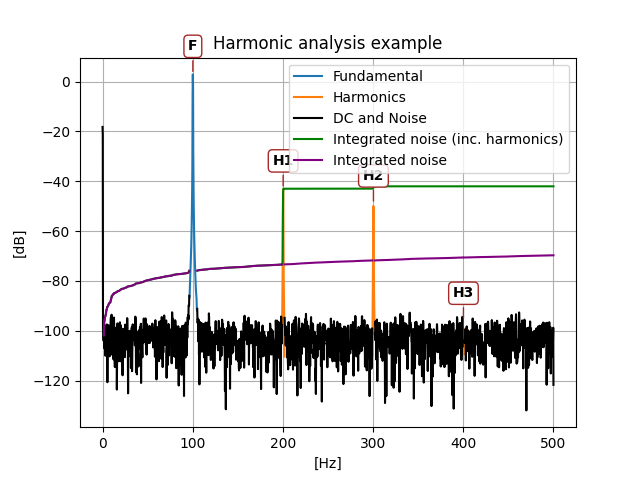
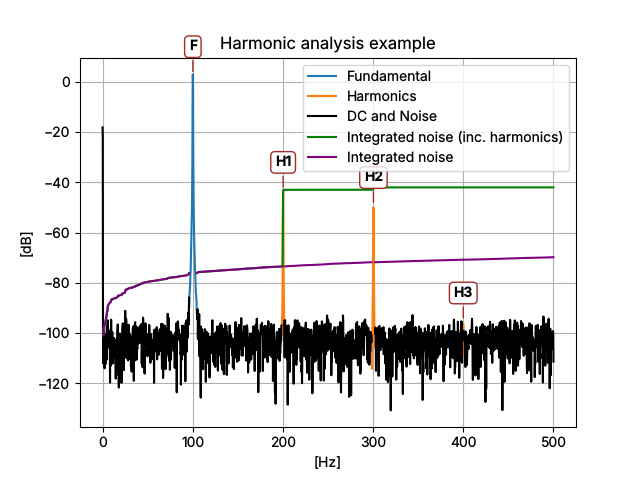
Fix the DC power reported by harm_analysis
harm_analysis summed the DC bins without dividing by the window's
equivalent noise bandwidth, unlike every other power, so dc_db was too
high by 10*log10(ENBW): +1.76 dB with the default Hann window, +3.02 dB
with Blackman-Harris. Use _power_from_bins like spec_analysis does.

That alone would have broken the flat-top window, where the error was
hidden by a second bug: _find_dc_bins looks for the first rising bin, but
the single-sided spectrum doubles every bin except DC, so with a flat
main lobe bin 1 is higher than bin 0 and only one DC bin was found. Undo
the doubling before comparing bins. This also fixes spec_analysis, which
reported DC 5.76 dB too low with the flat-top window.

- New test: DC power for Hann, Blackman-Harris and flat-top windows,
  even and odd lengths, harm_analysis and spec_analysis (0.01 dB).
- Tighten the existing dc_db assertions from rtol=0.3 (up to ~5 dB) to
  0.01 dB; they let the 1.76 dB error through.
- Regenerate examples/example_usage.md and its plot, which showed the
  wrong dc_db.

Fixes #48

Claude-Session: https://claude.ai/code/session_01TF8dALp1KyQV4288DM1FF8

diff --git a/tests/test_harm_analysis.py b/tests/test_harm_analysis.py
@@ -94,7 +94,7 @@ def test_harm_analysis(plot_en):
 
     assert np.isclose(results.fund_db, fund_pow_db, rtol=tolerance)
     assert np.isclose(results.fund_freq, f1, rtol=tolerance)
-    assert np.isclose(results.dc_db, dc_power_db, rtol=tolerance)
+    assert np.isclose(results.dc_db, dc_power_db, atol=0.01)  # dB
     assert np.isclose(results.noise_db, noise_pow_db, rtol=tolerance)
     assert np.isclose(results.thd_db, thd_db, rtol=tolerance)
     assert np.isclose(results.thdn_db, thdn_db, rtol=tolerance)
@@ -161,7 +161,7 @@ def test_harm_analysis_dc(plot_en):
 
     assert np.isclose(results.fund_db, fund_pow_db, rtol=tolerance)
     assert np.isclose(results.fund_freq, f1, rtol=tolerance)
-    assert np.isclose(results.dc_db, dc_power_db, rtol=tolerance)
+    assert np.isclose(results.dc_db, dc_power_db, atol=0.01)  # dB
     assert np.isclose(results.noise_db, noise_pow_db, rtol=tolerance)
     assert np.isclose(results.thd_db, thd_db, rtol=tolerance)
     assert np.isclose(results.thdn_db, thdn_db, rtol=tolerance)
@@ -220,7 +220,7 @@ def test_harm_analysis_bw():
 
     assert np.isclose(results.fund_db, fund_pow_db, rtol=tolerance)
     assert np.isclose(results.fund_freq, f1, rtol=tolerance)
-    assert np.isclose(results.dc_db, dc_power_db, rtol=tolerance)
+    assert np.isclose(results.dc_db, dc_power_db, atol=0.01)  # dB
     assert np.isclose(results.noise_db, noise_pow_db - 3, rtol=tolerance)
     assert np.isclose(results.thd_db, thd_db, rtol=tolerance)
     assert np.isclose(results.thdn_db, thdn_db, rtol=tolerance)
@@ -281,7 +281,7 @@ def test_harm_analysis_harm_zero():
 
     assert np.isclose(results.fund_db, fund_pow_db, rtol=tolerance)
     assert np.isclose(results.fund_freq, f1, rtol=tolerance)
-    assert np.isclose(results.dc_db, dc_power_db, rtol=tolerance)
+    assert np.isclose(results.dc_db, dc_power_db, atol=0.01)  # dB
     assert np.isclose(results.noise_db, noise_pow_db - 3, rtol=tolerance)
     assert np.isnan(results.thd_db)
     assert np.isclose(results.thdn_db, thdn_db, rtol=tolerance)

diff --git a/tests/test_edge_cases.py b/tests/test_edge_cases.py
@@ -27,7 +27,7 @@ import numpy as np
 import pytest
 from scipy import signal
 
-from harm_analysis import harm_analysis
+from harm_analysis import harm_analysis, spec_analysis
 
 N = 4096
 T = np.arange(N)
@@ -188,3 +188,18 @@ def test_fund_freq_inside_dc():
     x = 0.5 + _signal(0.0513)
     with pytest.raises(ValueError, match=r"`fund_freq` .* is inside the DC component"):
         harm_analysis(x, fund_freq=1 / N)
+
+
+@pytest.mark.parametrize("func", [harm_analysis, spec_analysis])
+@pytest.mark.parametrize("window_name", ["hann", "blackmanharris", "flattop"])
+@pytest.mark.parametrize("n", [4096, 4095, 1000, 1001], ids=lambda n: f"n{n}_{'even' if n % 2 == 0 else 'odd'}")
+def test_dc_power(func, window_name, n):
+    """DC power is correct for any window and for even and odd lengths (#48)."""
+    dc = 0.25
+    t = np.arange(n)
+    x = dc + np.cos(2 * np.pi * 0.1003 * t) + np.random.default_rng(0).normal(0, 1e-6, n)
+    window = signal.windows.get_window(window_name, n, fftbins=True)
+
+    results = func(x, window=window)
+
+    assert np.isclose(results.dc_db, 20 * np.log10(dc), atol=0.01)

diff --git a/src/harm_analysis/_spectrum.py b/src/harm_analysis/_spectrum.py
@@ -222,6 +222,11 @@ def _find_dc_bins(x_fft: NDArray[np.float64]) -> int | np.signedinteger:
     the consecutive bins. DC ends when the next bin is greater than
     the current bin.
 
+    The single-sided power spectrum doubles every bin except DC (bin 0). That
+    doubling is undone before comparing the bins: otherwise windows with a flat
+    main lobe (e.g. flat-top) look like they rise from bin 0 to bin 1, and only the
+    first DC bin would be found.
+
     Parameters
     ---------
     x_fft : array_like
@@ -232,7 +237,9 @@ def _find_dc_bins(x_fft: NDArray[np.float64]) -> int | np.signedinteger:
 
     """
     # Stop if DC is not found after 50 samples
-    return np.argmax(np.diff(x_fft[:50]) > 0) + 1
+    two_sided = np.array(x_fft[:50], dtype=np.float64)
+    two_sided[1:] /= 2
+    return np.argmax(np.diff(two_sided) > 0) + 1
 
 
 def _power_from_bins(x_fft_pow, bins, enbw_bins, bw_bins):

diff --git a/tests/test_spectrum_analysis.py b/tests/test_spectrum_analysis.py
@@ -89,8 +89,8 @@ def test_spec_analysis():
     pow_fs2 = np.mean(sig_fs2**2)
     amp_arr_db = np.append(amp_arr_db, 10 * np.log10(pow_fs2))
 
-    assert np.isclose(results.dc, dc_level, rtol=tolerance)
-    assert np.isclose(results.dc_db, dc_power_db, rtol=tolerance)
+    assert np.isclose(results.dc, dc_level, rtol=1e-3)
+    assert np.isclose(results.dc_db, dc_power_db, atol=0.01)  # dB
     assert np.isclose(results.noise_db, noise_pow_db, rtol=tolerance)
     assert np.allclose(results.tones_freq, np.asarray([f1, 2 * f1, 3 * f1, fs / 2]), rtol=tolerance)
     assert np.allclose(results.tones_db, amp_arr_db, rtol=tolerance)

diff --git a/src/harm_analysis/_harmonic.py b/src/harm_analysis/_harmonic.py
@@ -115,7 +115,7 @@ def _find_bins(x, n_harm, bw_bins, enbw_bins, freq_array, fund_freq=None, fund_b
     # Index of last dc bin
     dc_end = int(_find_dc_bins(x))
     dc_bins = np.arange(dc_end)
-    dc_pow = np.sum(x[dc_bins])
+    dc_pow = _power_from_bins(x, dc_bins, enbw_bins=enbw_bins, bw_bins=bw_bins)
 
     if bw_bins <= dc_end:
         raise ValueError(

diff --git a/CHANGELOG.md b/CHANGELOG.md
@@ -54,6 +54,12 @@ This release contains breaking changes and will be released as 2.0.0.
 
 ### Fixed
 
+- `harm_analysis` reported `dc_db` too high by the window's equivalent noise bandwidth
+  (+1.76 dB with the default Hann window, +3.02 dB with Blackman-Harris). DC detection
+  also stopped after the first bin for windows with a flat main lobe, which made
+  `spec_analysis` report DC 5.76 dB too low with the flat-top window. DC power is now
+  correct for any window and for even and odd lengths.
+  ([#48](https://github.com/ericsmacedo/harm-analysis/issues/48))
 - `spec_analysis` occasionally reported a noise peak as a tone (about 1 in 300
   spectra of 2^18 samples). The default detection threshold is now derived from
   `false_alarm_rate` and the number of bins (about 13.5 dB above the local noise

diff --git a/examples/example_usage.md b/examples/example_usage.md
@@ -1,12 +1,12 @@
 Parameters:
-fund_db: 3.0103178431927984
-fund_freq: 100.12999868882139
-harm_freq: [200.25986956 300.38945435 400.20134394]
-harm_db: [-43.00093913 -49.03890458 -96.13740204]
-dc_db: -16.414175351690197
-noise_db: -69.72556277378999
-thd_db: -45.045607514047404
-snr_db: 72.73588061698278
-sinad_db: 45.03822188200353
-thdn_db: -45.03822188200353
-total_noise_and_dist_db: -69.72556277378999
+fund_db: 3.0102128636445458
+fund_freq: 100.1299992042317
+harm_freq: [200.25983383 300.39013596 399.97675788]
+harm_db: [-43.01177786 -49.05731397 -94.97825112]
+dc_db: -18.173698792488953
+noise_db: -69.82588328864927
+thd_db: -45.057844273189865
+snr_db: 72.8360961522938
+sinad_db: 45.050606629632824
+thdn_db: -45.050606629632824
+total_noise_and_dist_db: -69.82588328864925
